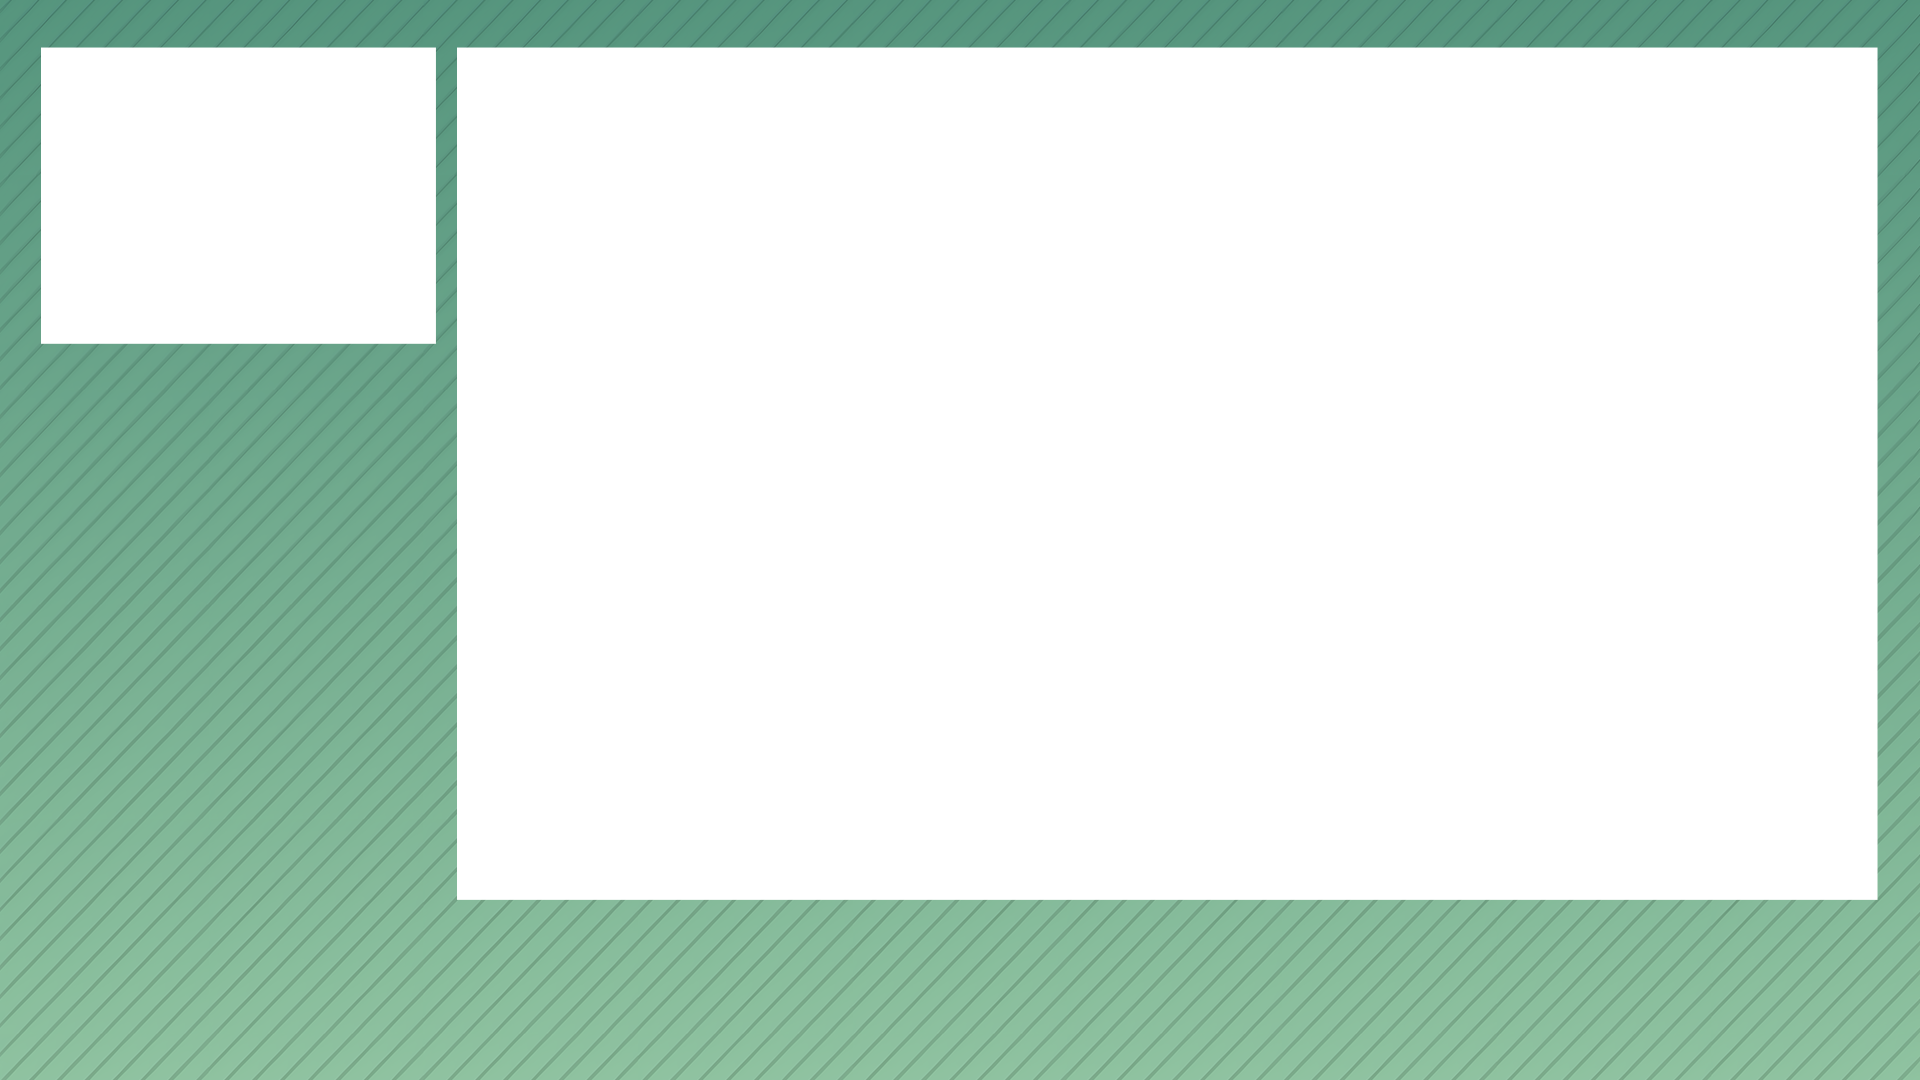
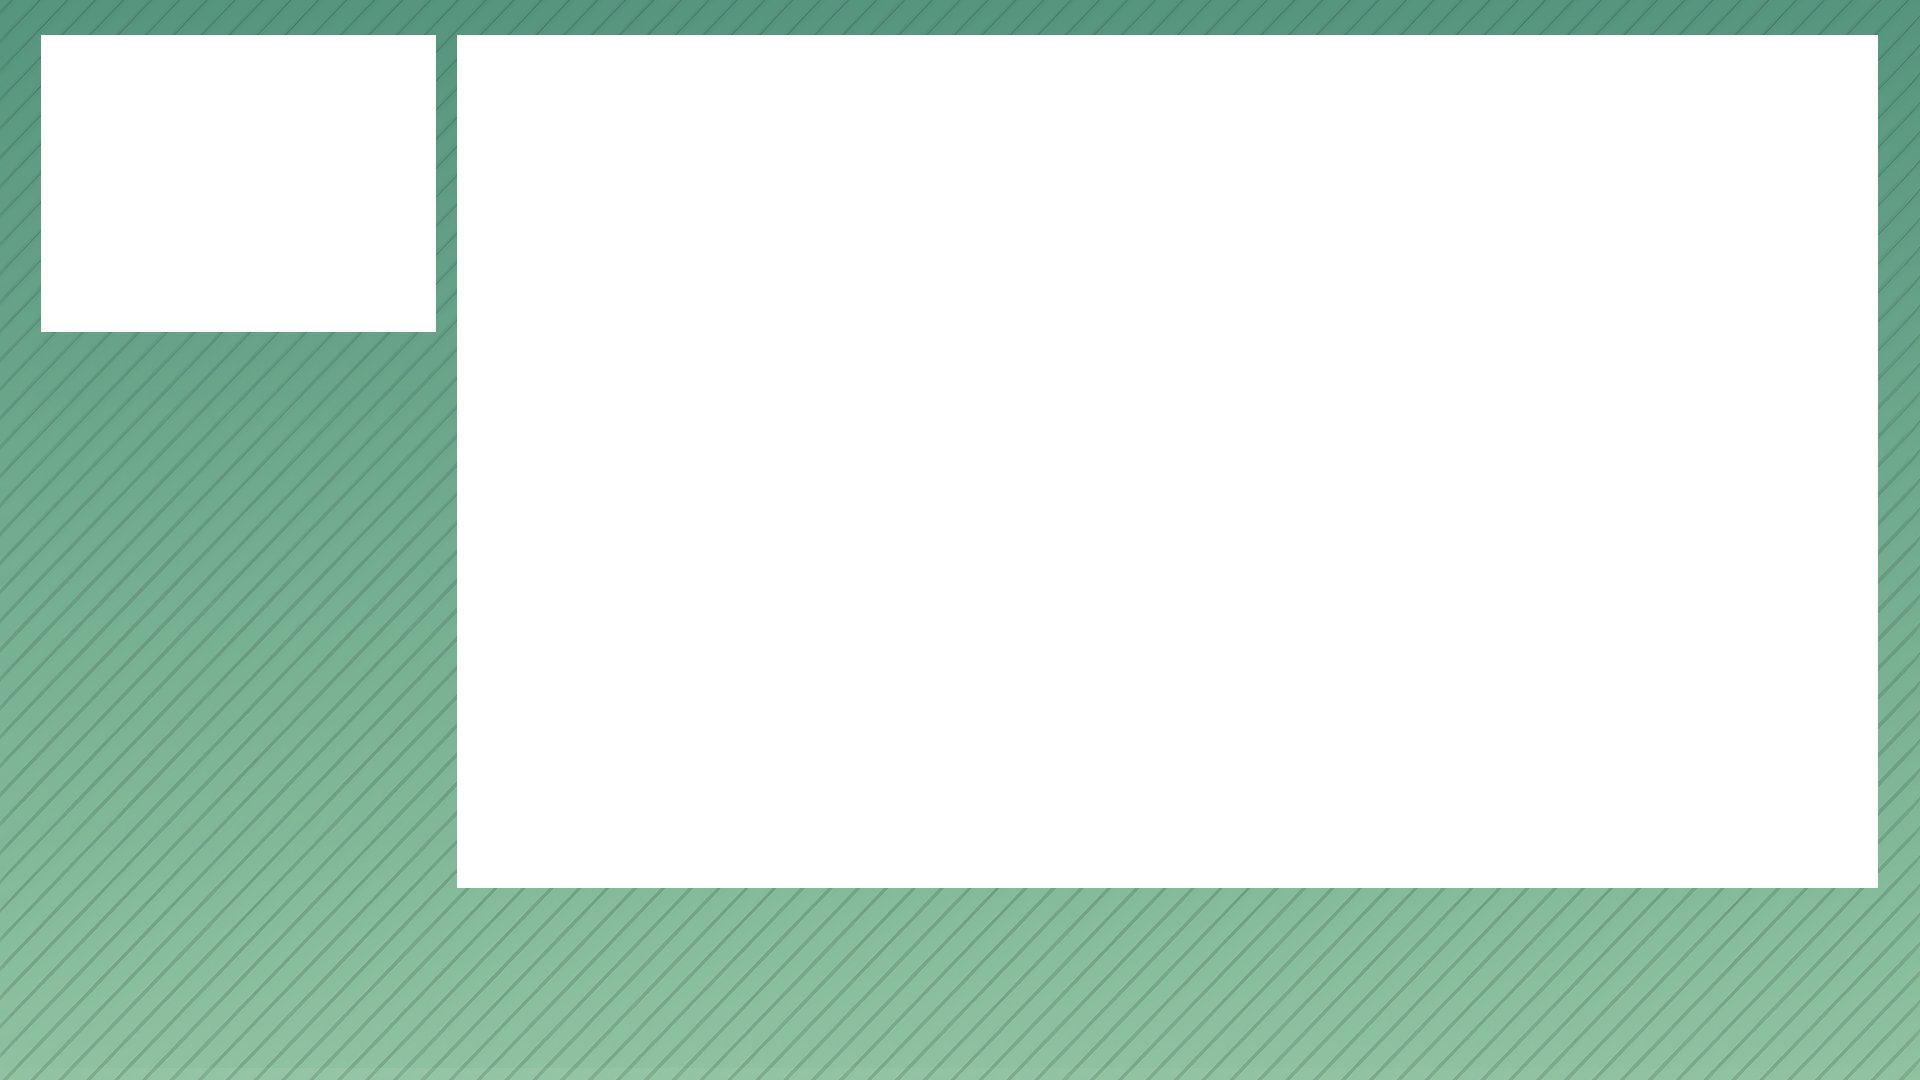
Some XY overlay adjustements

Changed region(s): [[0.0, 0.0306, 1.0, 0.0611], [0.2188, 0.825, 0.9688, 0.8556], [0.0, 0.3056, 0.2188, 0.3361]]

diff --git a/Stream Tool/Overlays/X and Y/Resources/XY.css b/Stream Tool/Overlays/X and Y/Resources/XY.css
@@ -28,7 +28,7 @@ html, body {
     width: 1421px;
     height: 853px;
     left: 451px;
-    top: 41px;
+    top: 29px;
     border-radius: 10px;
 }
 #borderMainScreen {
@@ -43,7 +43,7 @@ html, body {
     width: 395px;
     height: 297px;
     left: 36px;
-    top: 42px;
+    top: 29px;
     border-radius: 10px;
 }
 #borderBotScreen {
@@ -58,7 +58,7 @@ html, body {
 
 #playerInfo {
     position: absolute;
-    top: 370px;
+    top: 355px;
     left: 52px;
     width: 373px;
     display: flex;
@@ -167,7 +167,7 @@ html, body {
     display: flex;
     justify-content: center;
     align-items: center;
-    gap: 10px;
+    gap: 5px;
 }
 
 .vsWildTypeDiv {
@@ -179,6 +179,7 @@ html, body {
 .typeIcon {
     height: 26px;
     filter: drop-shadow(0px 0px 2px black);
+    transform: translateY(-1px);
 }
 
 
@@ -300,7 +301,7 @@ html, body {
     position: absolute;
     bottom: 0px;
     width: 100%;
-    height: 175px;
+    height: 187px;
     display: flex;
     justify-content: center;
     align-items: center;
@@ -483,7 +484,7 @@ html, body {
     display: flex;
     width: 100%;
     height: 175px;
-    bottom: 0px;
+    bottom: 6px;
     font-family: "Aero";
     color: #f8f8f8;
 }
